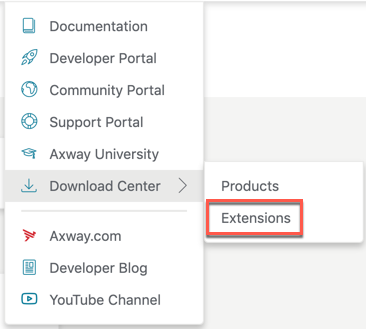
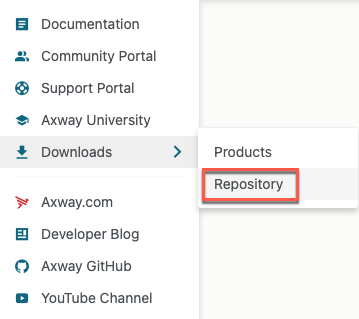
Updated the downloads menu and repository link and image in the Help & Resources menu (#112)
* updated downloads menu and repository link and image

* minor change

diff --git a/content/en/docs/getting_started_with_amplify_platform_management/navigation.md b/content/en/docs/getting_started_with_amplify_platform_management/navigation.md
@@ -30,15 +30,15 @@ The *Help & Resources* menu provides links to:
 ![Help & Resources menu](/Images/help_and_resources_menu.png)
 
 * **Documentation** - Click to navigate to the Documentation Portal and explore the {{% variables/platform_prod_name %}}documentation.
-* **Developer Portal** - Click to navigate to the Axway Developer Portal to learn about and watch video tutorials on the {{% variables/platform_prod_name %}} capabilities.
 * **Community Portal** - Click to navigate to the Axway Community Portal.
 * **Support Portal** - Click to navigate to the Axway Support Portal (login required).
 * **Axway University** - Click to navigate to the Axway University Portal.
-* **Download Center** - Click to access the Products and Extensions. Refer to the [Downloading Axway-issued Artifacts or Product Extensions](/docs/management_guide/downloading_axway-issued_artifacts_or_product_extensions/) for details.
+* **Downloads** - Click to access the Products and Amplify Repository. Refer to the [Downloading Axway-issued Artifacts or Product Extensions](/docs/management_guide/downloading_axway-issued_artifacts_or_product_extensions/) for details.
     * Click **Products** to navigate to the Axway Support Portal (login required).
-    * Click **Extensions** to navigate to the Axway Amplify Repository.
+    * Click **Repository** to navigate to the Amplify Repository.
 * **Axway.com** - Click to navigate to Axway.com.
 * **Developer Blog** - Click to navigate to the Axway Developer blog, where you can subscribe to receive blog posts by email.
+* **Axway GitHub** - Click to navigate to the Axway Software GitHub organization for all available Axway source code in GitHub repositories.
 * **YouTube Channel** - Click to navigate to the Axway Developer YouTube channel.
 
 ### Recent Activity icon

diff --git a/content/en/docs/management_guide/downloading_axway-issued_artifacts_or_product_extensions.md b/content/en/docs/management_guide/downloading_axway-issued_artifacts_or_product_extensions.md
@@ -7,10 +7,10 @@ date: 2021-08-12
 
 The Amplify Repository is where Axway-issued artifacts or product extensions are available for you to download directly from the Platform. Previously, the Axway Marketplace was where we had distributed Axway and 3rd party product extensions for a variety of Axway products and services. The Amplify Repository provides you a simpler and more consistent way to access and download your content through the Platform.
 
-You can access the repository directly using the URL [https://repository.axway.com](https://repository.axway.com) or from the Download Center - **Extensions** link in the Platform's top navigation **Help & Resources** menu.
+You can access the repository directly using the URL [https://repository.axway.com](https://repository.axway.com) or from the Downloads - **Repository** link in the Platform's top navigation **Help & Resources** menu.
 
-![Axway Repository - Extensions menu](/Images/download_center.png)
+![Axway Repository menu](/Images/download_center.png)
 
-From the **Download Center** link, you can also click the **Products** link to go to the [Support Portal](https://support.axway.com/en/downloads/index/type/Downloads) downloads page.
+From the **Downloads** menu, you can also click the **Products** link to go to the [Support Portal](https://support.axway.com/en/downloads/index/type/Downloads) downloads page.
 
 {{% alert title="Note" color="primary" %}}Titanium artifacts are no longer available through the Platform. If you need access to a Titanium artifact, or if you have questions about artifacts that you have purchased through the Axway Marketplace previously, please contact Axway at [marketplace-admin@axway.com](mailto:marketplace-admin@axway.com).{{% /alert %}}

diff --git a/content/en/docs/getting_started_with_amplify_platform_management/_index.md b/content/en/docs/getting_started_with_amplify_platform_management/_index.md
@@ -5,4 +5,4 @@ weight: 10
 date: 2021-08-12
 ---
 
-The Getting Started documentation includes the following topics to access, navigate, and use the Amplify Platform Management interface.
+The Getting Started section includes the following topics to access, navigate, and use the Amplify Platform Management interface.
